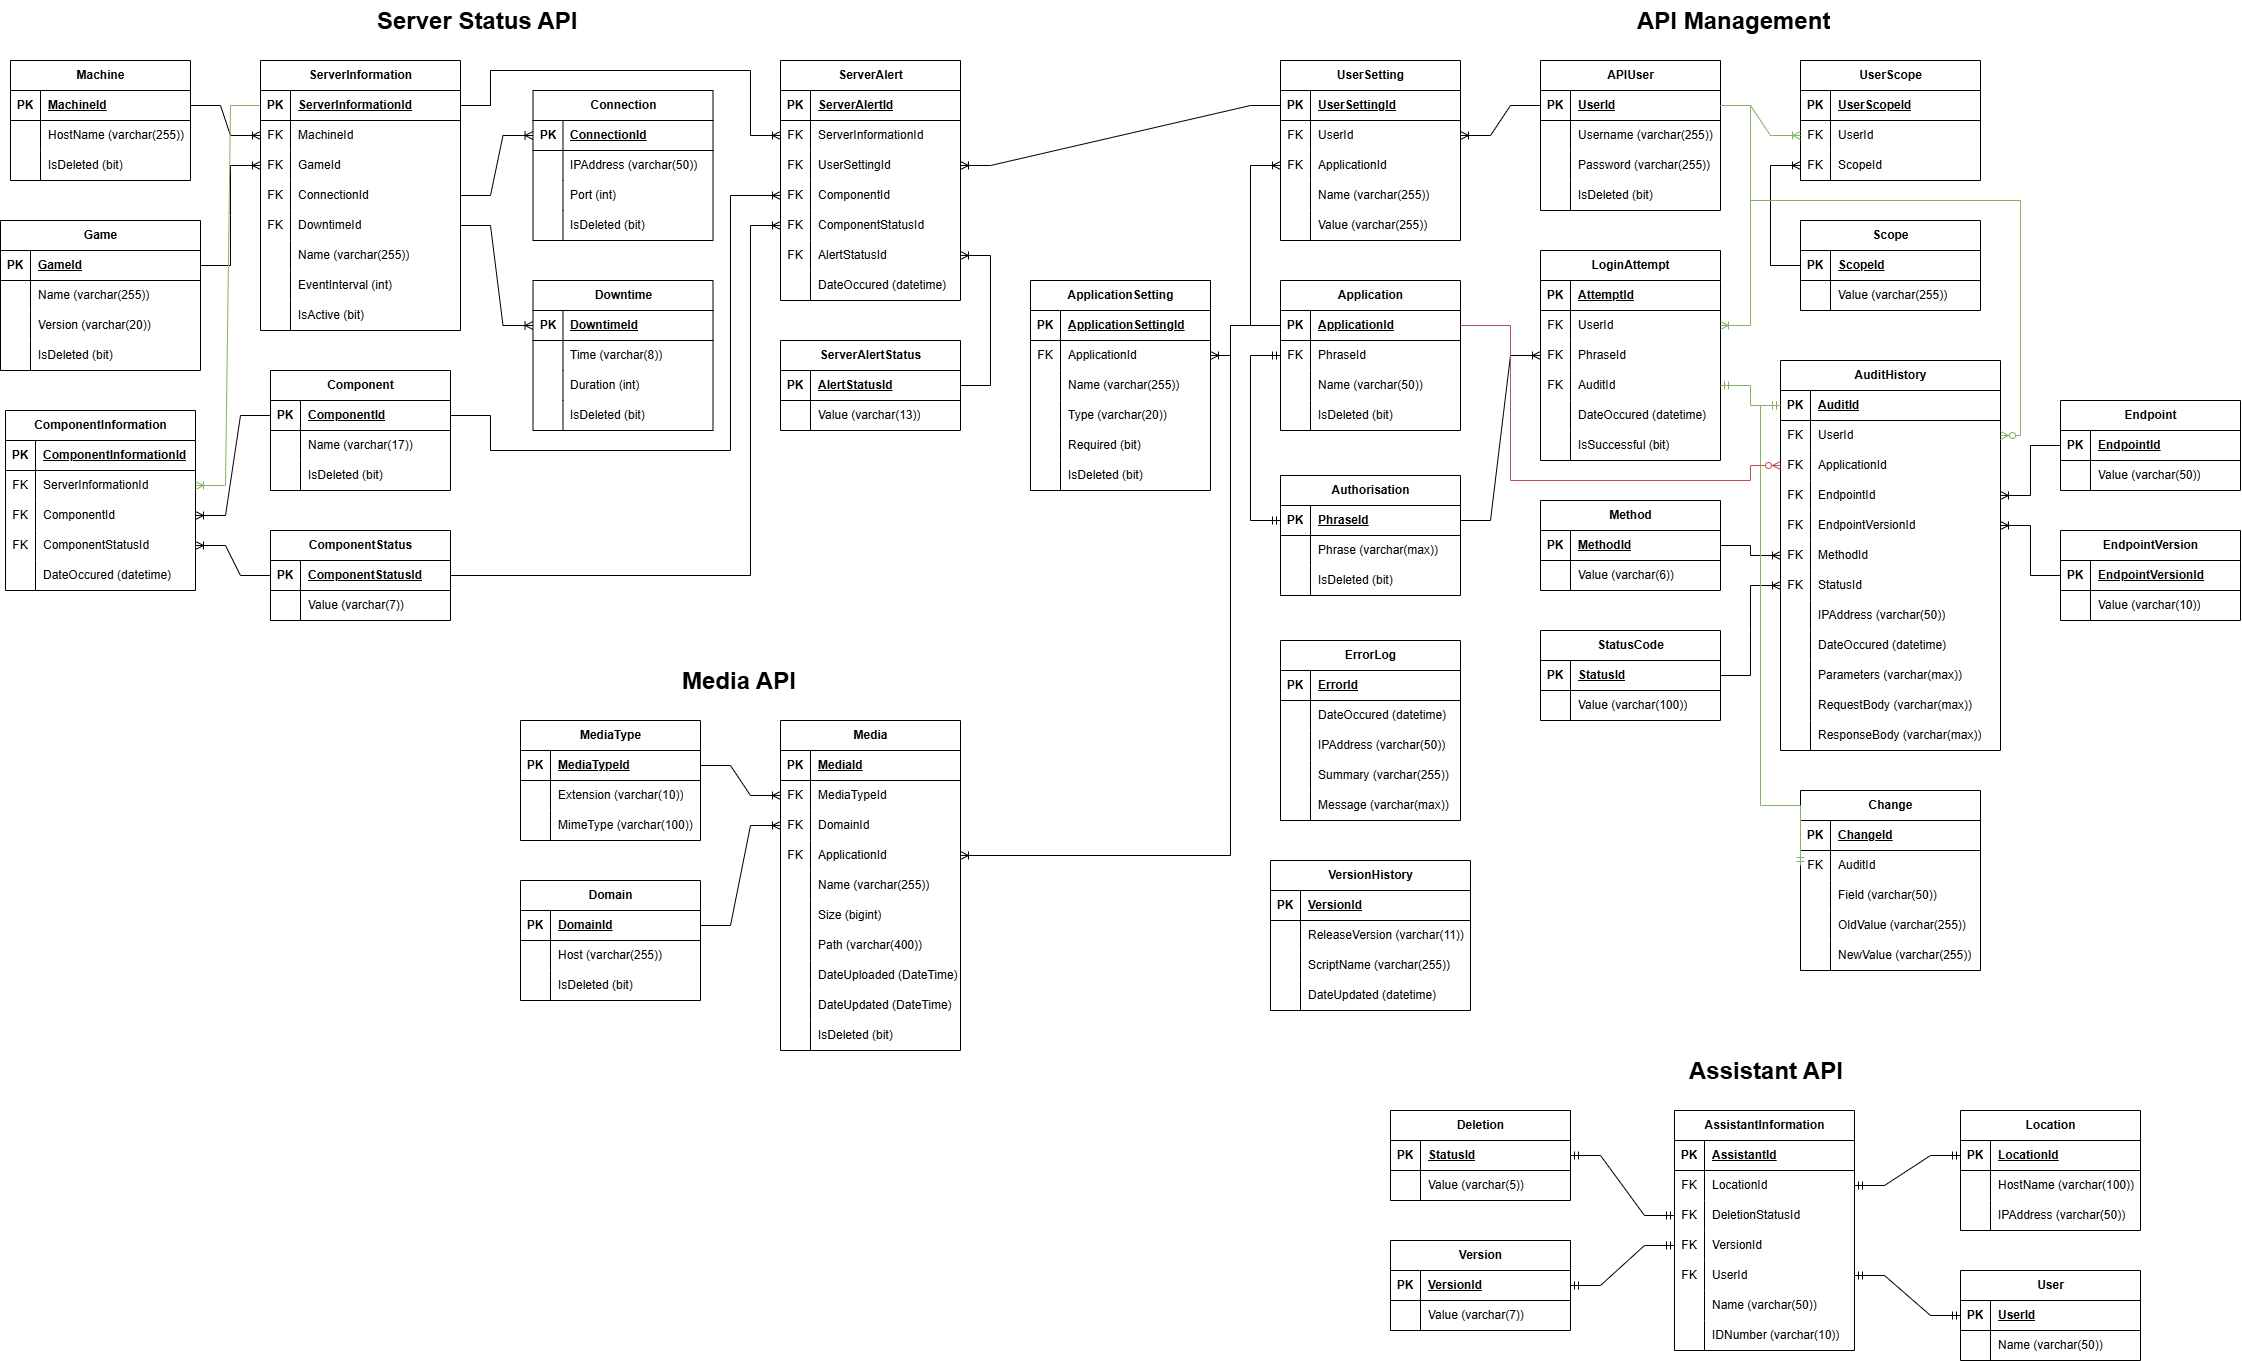
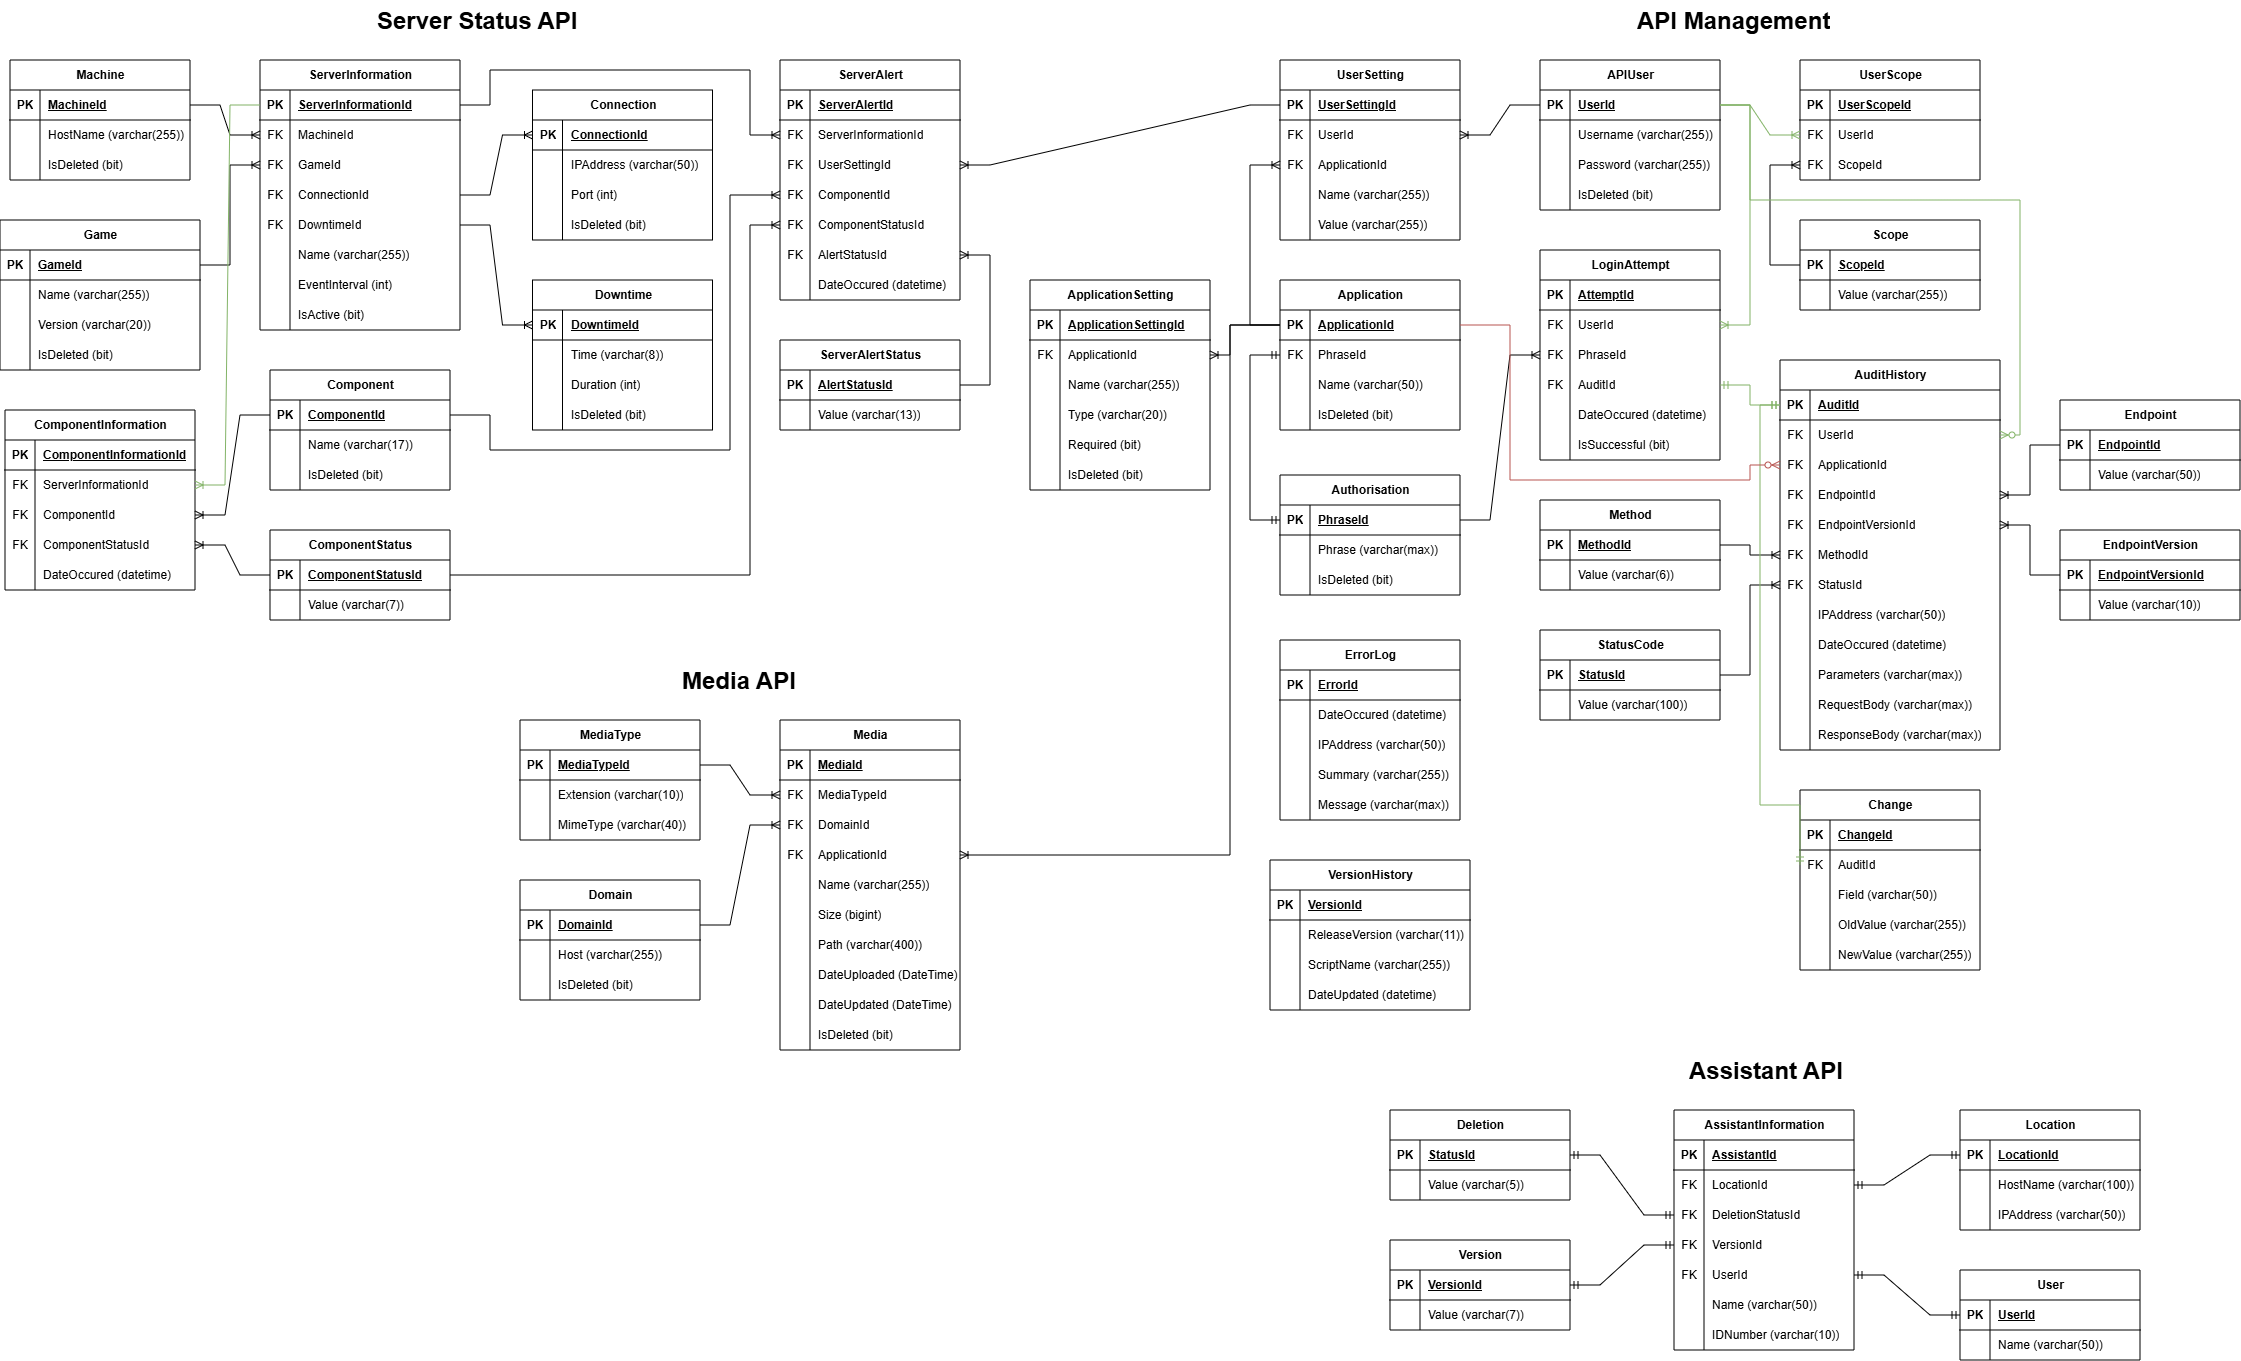
UAT Fixes II
Changed the Media API to limit the data that can be registered to just image, audio or video.

Updated the size of the mime type field to 40 characters.

Updated the API to fix some post issues.

Added Media.Read to the Control Panel scopes.

Updated the MediaDetail page to correctly display the different types of media.

diff --git a/Hunter Industries API/Controllers/Media/MediaController.cs b/Hunter Industries API/Controllers/Media/MediaController.cs
@@ -553,6 +553,41 @@ namespace HunterIndustriesAPI.Controllers
                     response.Data);
             }
 
+            if (!request.MimeType.StartsWith("image/") && !request.MimeType.StartsWith("video/") && !request.MimeType.StartsWith("audio/"))
+            {
+                response = new ResponseModel()
+                {
+                    StatusCode = 400,
+                    Data = new
+                    {
+                        error = "The provided MIME type is not supported. Only image, video, and audio media types are accepted."
+                    }
+                };
+
+                await _auditHistoryService.LogRequest(
+                    IPAddressFunction.FetchIpAddress(new HttpRequestWrapper(HttpContext.Current.Request)),
+                    AuditHistoryConverter.GetEndpointId("media"),
+                    AuditHistoryConverter.GetEndpointVersionId(AuditHistoryFunction.ExtractVersionFromRequest(Request)),
+                    AuditHistoryConverter.GetMethodId("POST"),
+                    AuditHistoryConverter.GetStatusId("BadRequest"),
+                    username,
+                    applicationName,
+                    new string[]
+                    {
+                        $"Application: {application}",
+                        $"Application Entity Id: {entityId}"
+                    },
+                    requestBody: ParameterFunction.SerialiseRequestBody(request),
+                    responseBody: ResponseFunction.GetModelJSON(response.Data));
+
+                _Logger.LogMessage(
+                    StandardValues.LoggerValues.Info,
+                    $"Media (Post) endpoint returned a {response.StatusCode} with the data {ResponseFunction.GetModelJSON(response.Data)}.");
+                return Content(
+                    HttpStatusCode.BadRequest,
+                    response.Data);
+            }
+
             if (await _mediaService.MediaExists(
                 application,
                 request.Name))
@@ -590,26 +625,22 @@ namespace HunterIndustriesAPI.Controllers
                     response.Data);
             }
 
-            bool created = false;
-            int id = 0;
-
-            if (await _mediaService.MediaTypeCreated(
+            await _mediaService.MediaTypeCreated(
                 request.Extension,
-                request.MimeType))
-            {
-                (created, id) = await _mediaService.MediaCreated(
+                request.MimeType);
+
+            (bool created, int id) = await _mediaService.MediaCreated(
                 application,
                 request);
 
-                if (created)
+            if (created)
+            {
+                if (MediaConverter.GetSQLCreateApplicationEntityLink(application) != "NoApplicationEntityLink")
                 {
-                    if (MediaConverter.GetSQLCreateApplicationEntityLink(application) != "NoApplicationEntityLink")
-                    {
-                        created = await _mediaService.ApplicationEntityLinkCreated(
-                        application,
-                        entityId,
-                        id);
-                    }
+                    created = await _mediaService.ApplicationEntityLinkCreated(
+                    application,
+                    entityId,
+                    id);
                 }
             }
 

diff --git a/Hunter Industries API Control Panel/Components/Pages/Media/MediaDetail.razor.cs b/Hunter Industries API Control Panel/Components/Pages/Media/MediaDetail.razor.cs
@@ -23,6 +23,8 @@ namespace HunterIndustriesAPIControlPanel.Components.Pages.Media
 
         private string ReturnURL = "/media";
 
+        private string MediaCategory = "Media Preview";
+
         /// <summary>
         /// Loads the data.
         /// </summary>
@@ -39,6 +41,21 @@ namespace HunterIndustriesAPIControlPanel.Components.Pages.Media
             if (Media != null)
             {
                 ReturnURL = $"/media?application={Media.Application}";
+
+                if (Media.Type.MimeType.StartsWith("image/"))
+                {
+                    MediaCategory = "Image";
+                }
+
+                else if (Media.Type.MimeType.StartsWith("video/"))
+                {
+                    MediaCategory = "Video";
+                }
+
+                else if (Media.Type.MimeType.StartsWith("audio/"))
+                {
+                    MediaCategory = "Audio";
+                }
             }
 
             IsLoading = false;

diff --git a/Hunter Industries API/Services/Media/Media Service.cs b/Hunter Industries API/Services/Media/Media Service.cs
@@ -472,7 +472,7 @@ fetch next @pageSize rows only";
                     _Options.SQLFiles,
                     "Media",
                     "MediaExists.sql"));
-                sql += "\nwhere [Application] = @application\nand Media.[Name] = @name";
+                sql += "\nwhere [Application].[Name] = @application\nand Media.[Name] = @name";
 
                 SqlParameter[] parameters =
                 {

diff --git a/Hunter Industries API/Mappings/Scope Permission Mapping.cs b/Hunter Industries API/Mappings/Scope Permission Mapping.cs
@@ -21,6 +21,7 @@ namespace HunterIndustriesAPI.Mappings
                     "AuditHistory",
                     "Configuration",
                     "ErrorLog",
+                    "Media.Read",
                     "ServerStatus.Alert",
                     "ServerStatus.Event",
                     "ServerStatus.Information",